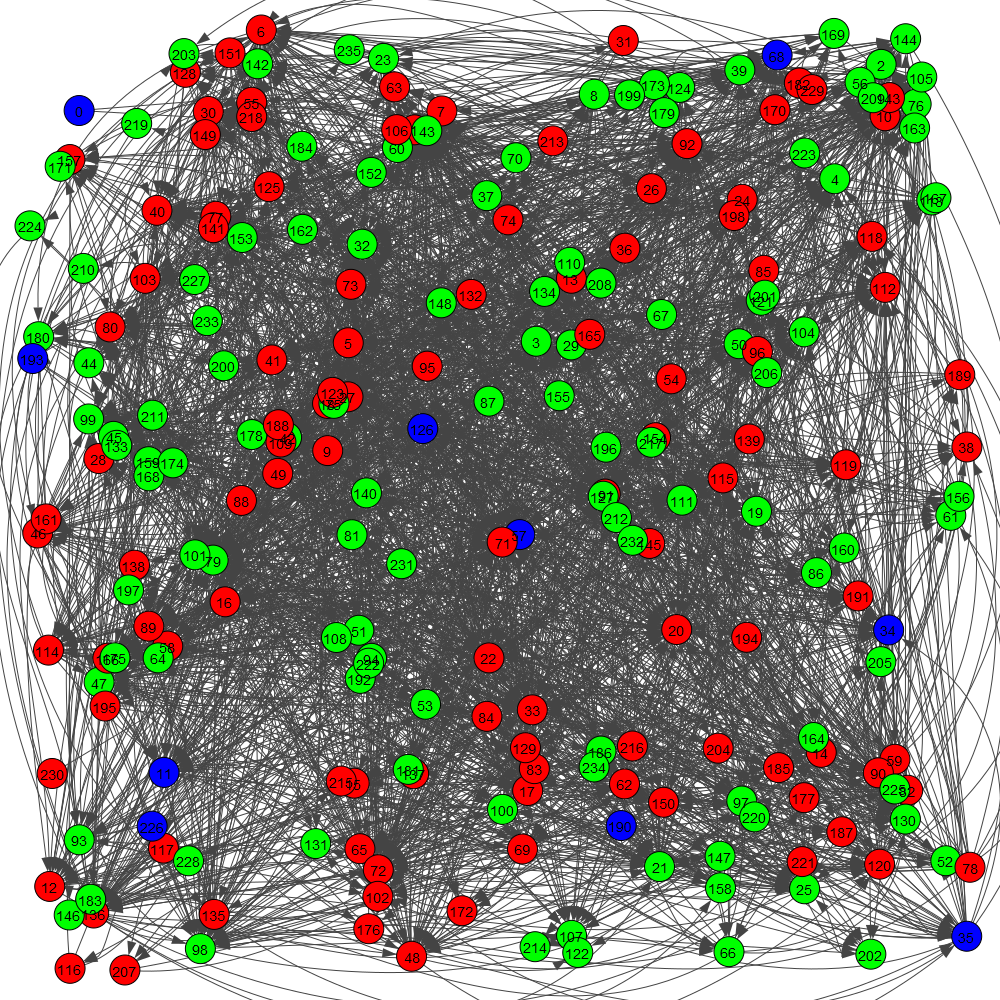
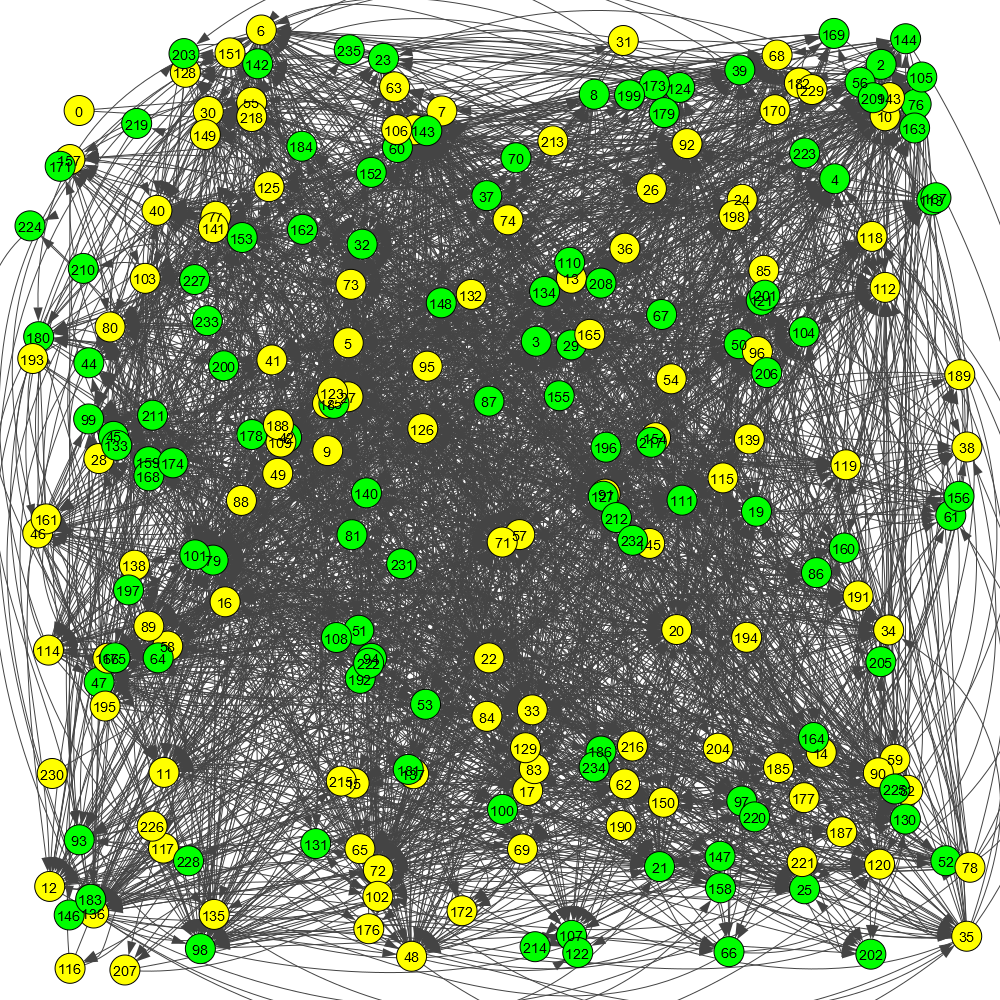
Final submission

diff --git a/celf_with_dom/test.py b/celf_with_dom/test.py
@@ -111,7 +111,7 @@ def compute_influence_spread(dg, seed_set, threshold, K):
 
 def color_vertex(g,influencer_list, spread_list):
     for i in range(0,g.vcount(),1):
-        g.vs[i]["color"] = "red" if g.vs[i]["label"] in influencer_list else \
+        g.vs[i]["color"] = "yellow" if g.vs[i]["label"] in influencer_list else \
             "green" if g.vs[i]["label"] in spread_list else "blue"
     return g
 
@@ -179,12 +179,12 @@ def compute_reach(g, dataset, K):
 #     g.vs[vertex]["label"] = vertex
 # compute_reach(g, "youtube", K)
 
-# print("---------------------------------Working for Facebook Dataset---------------------------------")
-# g = igraph.read("../data/0.edges", format="ncol", directed=True, names=True)
-# K = 50
-# for vertex in range(0, g.vcount(), 1):
-#     g.vs[vertex]["label"] = vertex
-# compute_reach(g, "facebook", K)
+print("---------------------------------Working for Facebook Dataset---------------------------------")
+g = igraph.read("../data/0.edges", format="ncol", directed=True, names=True)
+K = 50
+for vertex in range(0, g.vcount(), 1):
+    g.vs[vertex]["label"] = vertex
+compute_reach(g, "facebook", K)
 
 # print("---------------------------------Working for GOT Dataset---------------------------------")
 # g = igraph.Graph.Read_GraphML('../data/got.graphml')
@@ -201,10 +201,10 @@ def compute_reach(g, dataset, K):
 #     g.vs[vertex]["label"] = vertex
 # compute_reach(g, "twitter", K)
 
-print("---------------------------------Working for Netscience Dataset---------------------------------")
-g = igraph.Graph.Read_GML('../data/netscience.gml')
-K = 640
-for vertex in range(0, g.vcount(), 1):
-    g.vs[vertex]["name"] = g.vs[vertex]["label"]
-    g.vs[vertex]["label"] = vertex
-compute_reach(g, "netscience", K)
+# print("---------------------------------Working for Netscience Dataset---------------------------------")
+# g = igraph.Graph.Read_GML('../data/netscience.gml')
+# K = 640
+# for vertex in range(0, g.vcount(), 1):
+#     g.vs[vertex]["name"] = g.vs[vertex]["label"]
+#     g.vs[vertex]["label"] = vertex
+# compute_reach(g, "netscience", K)
